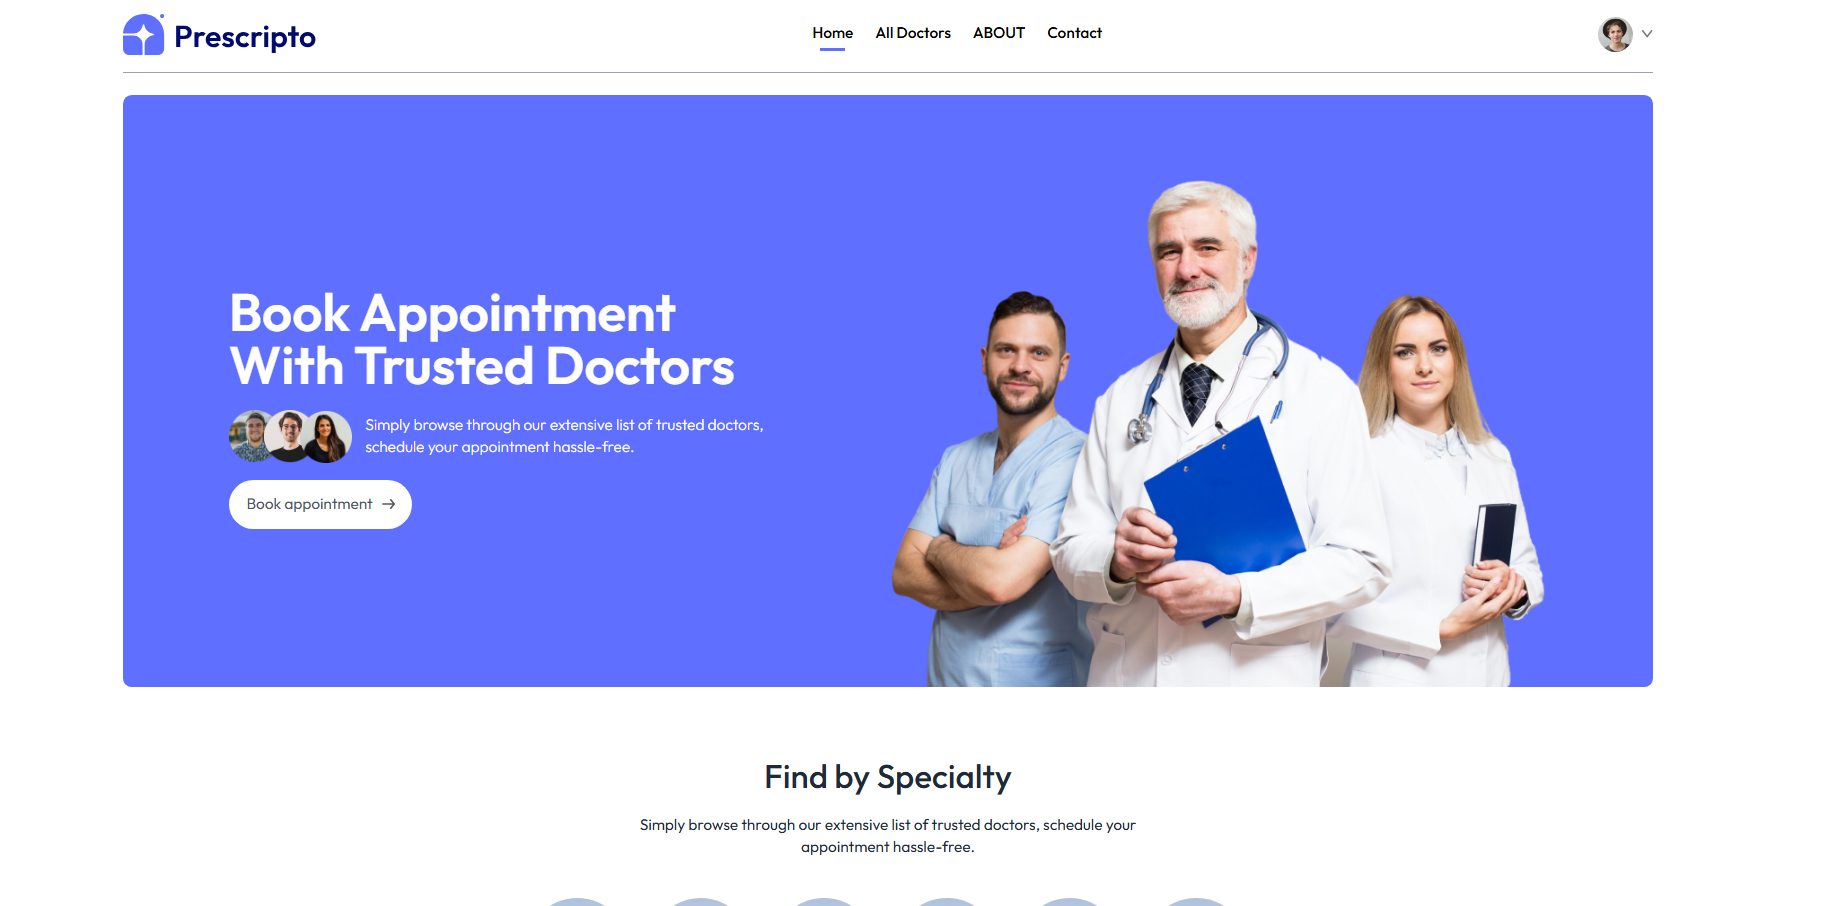
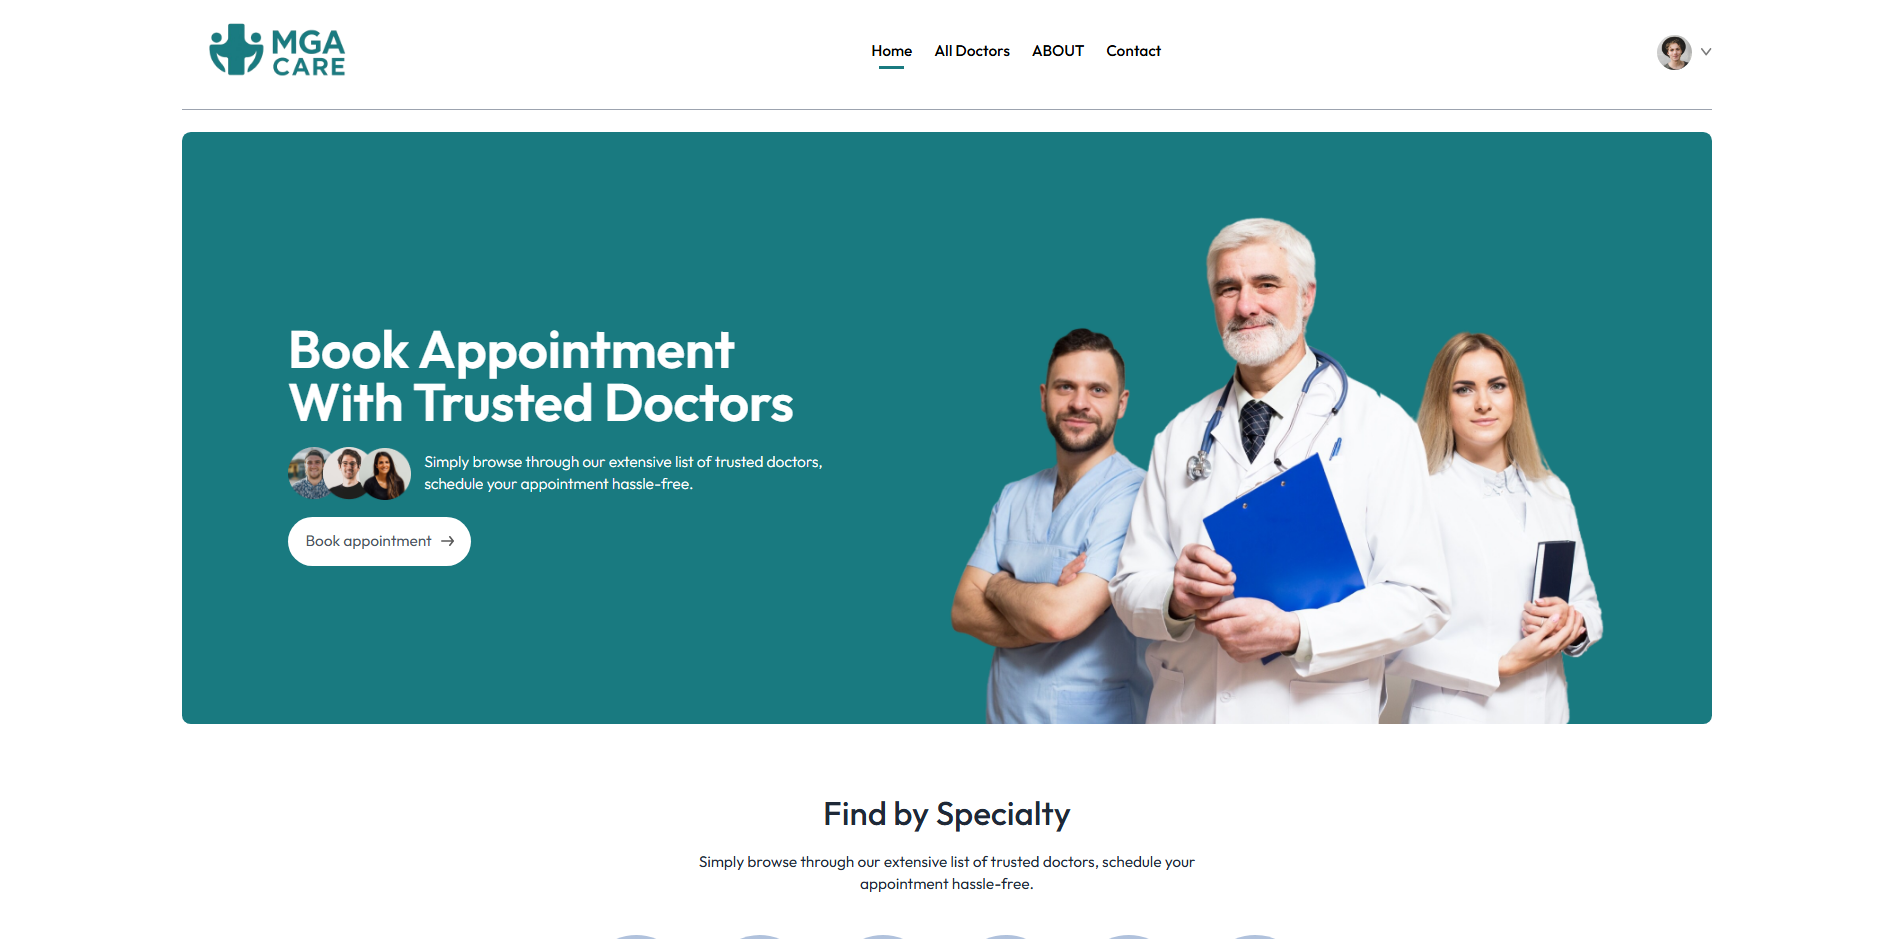
feat:  book appointment

diff --git a/src/pages/Appointments.tsx b/src/pages/Appointments.tsx
@@ -8,11 +8,11 @@ import RelatedDocs from '../components/RelatedDocs';
 const Appointments = () => {
   const { docId } = useParams();
 
-  const context = useContext(AppContext) || {
-    doctors: [],
-    currencySymbol: "$",
-  };
-  const { doctors, currencySymbol } = context;
+  const context = useContext(AppContext);
+  if (!context) {
+    return <div>Error: AppContext not available</div>;
+  }
+  const { doctors, currencySymbol, bookAppointment } = context;
   const [docInfo, setDocInfo] = useState<DoctorInterface | null>(null);
   // time slots
   const daysOfWeek = ["SUN", "MON", "TUE", "WED", "THU", "FRI", "SAT"];
@@ -70,6 +70,16 @@ const Appointments = () => {
     }
   };
 
+  const handleBookAppointment = () => {
+    if (!docInfo || !docSlotsTime || docSlots.length === 0) {
+      alert("Please select a time slot before booking");
+      return;
+    }
+
+    const selectedDate = docSlots[docSlotsIndex][0].datetime.toISOString().split('T')[0];
+    bookAppointment(docInfo, selectedDate, docSlotsTime);
+  };
+
   useEffect(() => {
     fetchDocData();
   }, [docId, doctors]);
@@ -103,7 +113,7 @@ const Appointments = () => {
             <p>
               {docInfo.degree} - {docInfo.speciality}
             </p>
-            <button className="py-0.5 px-2 border  rounded-full text-xs">
+            <button className="py-0.5 px-2 border rounded-full text-xs">
               {docInfo.experience}
             </button>
           </div>
@@ -133,7 +143,10 @@ const Appointments = () => {
           {docSlots.length >= 0 &&
             docSlots.map((slot, index) => (
               <button
-              onClick={() => setDocSlotsIndex(index)}
+                onClick={() => {
+                  setDocSlotsIndex(index);
+                  setDocSlotsTime(""); // Reset time when changing date
+                }}
                 key={index}
                 className={`text-center py-6 min-w-16 rounded-full cursor-pointer ${
                   index === docSlotsIndex
@@ -149,20 +162,28 @@ const Appointments = () => {
         <div className="flex items-center gap-3 w-full overflow-x-scroll mt-4 horizontal-scroll">
           {docSlots.length >= 0 &&
             docSlots[docSlotsIndex]?.map((slot, index) => (
-              <button onClick={() => setDocSlotsTime(slot.time)}
-                className={`text-sm font-light flex-shrink-0 px-5 py-2 rounded-full cursor-pointer ${slot.time ===docSlotsTime ? "bg-primary text-white" : "border border-gray-300"}`}
+              <button
+                onClick={() => setDocSlotsTime(slot.time)}
+                className={`text-sm font-light flex-shrink-0 px-5 py-2 rounded-full cursor-pointer ${
+                  slot.time === docSlotsTime
+                    ? "bg-primary text-white"
+                    : "border border-gray-300"
+                }`}
                 key={index}
               >
                 {slot.time.toLowerCase()}
               </button>
             ))}
         </div>
-        <button className="bg-primary text-white py-3 text-sm px-14 rounded-full font-light my-6 mt-4">
-        Book an appointment
+        <button
+          onClick={handleBookAppointment}
+          className="bg-primary text-white py-3 text-sm px-14 rounded-full font-light my-6 mt-4"
+        >
+          Book an appointment
         </button>
       </div>
       {/* list of related docs  */}
-      <RelatedDocs docId = {docId} specialty = {docInfo.speciality}/>
+      <RelatedDocs docId={docId} specialty={docInfo.speciality} />
     </div>
   ) : (
     <div>loading</div>

diff --git a/src/pages/Doctors.tsx b/src/pages/Doctors.tsx
@@ -83,7 +83,7 @@ const Doctors = () => {
                     ? navigate('/doctors')
                     : navigate(`/doctors/${spec}`)
                 }
-                className={`w-full text-left pl-3 py-1.5 border border-gray-300 rounded transition-all ${specialty === spec ? "bg-indigo-100 text-black" : ""
+                className={`w-full text-left pl-3 py-1.5 border border-gray-300 rounded transition-all ${specialty === spec ? "bg-primary/50 text-white" : ""
                   }`}
               >
                 {spec}
@@ -102,9 +102,9 @@ const Doctors = () => {
               onChange={(e) => setMinFee(+e.target.value)}
               className="w-full h-2 rounded-lg appearance-none cursor-pointer"
               style={{
-                background: `linear-gradient(to right, #e0e7ff ${(minFee / maxFee) * 100
+                background: `linear-gradient(to right, rgb(25 122 128 / 0.5) ${(minFee / maxFee) * 100
                   }%, #e5e7eb ${(minFee / maxFee) * 100}%)`,
-                accentColor: "#e0e7ff", // Indigo-100 for thumb
+                accentColor: "rgb(25 122 128 / 0.5)", // Indigo-100 for thumb
               }}
             />
             <div className="flex justify-between">
@@ -118,7 +118,7 @@ const Doctors = () => {
             <select
               value={minRating}
               onChange={(e) => setMinRating(+e.target.value)}
-              className="border border-gray-300 rounded p-1 bg-indigo-100"
+              className="border border-primary/50 rounded p-1 bg-primary/50 text-white"
             >
               {[0, 1, 2, , 3, 3.5, 4, 4.5, 5].map((rating) => (
                 <option key={rating} value={rating}>
@@ -136,13 +136,13 @@ const Doctors = () => {
               checked={availability}
               onChange={(e) => setAvailability(e.target.checked)}
               className="w-5 h-5 rounded border-gray-300 text-indigo-500 focus:ring-indigo-200 cursor-pointer"
-              style={{ accentColor: "#e0e7ff" }} />
+              style={{ accentColor: "rgb(25 122 128 / 0.5)" }} />
           </div>
 
           {/* Reset Button */}
           <button
             onClick={resetFilters}
-            className="w-full pl-3 py-1.5 border border-gray-300 rounded transition-all hover:bg-indigo-100"
+            className="w-full pl-3 py-1.5 border border-gray-300 rounded transition-all hover:bg-primary/50 hover:text-white"
           >
             Reset Filters
           </button>

diff --git a/src/pages/MyAppointments.tsx b/src/pages/MyAppointments.tsx
@@ -1,14 +1,17 @@
-import { useContext } from "react";
+
+// MyAppointments Component
+import { useContext, useState } from "react";
 import { AppContext } from "../context/appContext";
+
 const MyAppointments = () => {
   const context = useContext(AppContext);
   if (!context) {
     return <div>Error: AppContext not available</div>;
   }
 
-  const { doctors, getBookings } = context;
+  const { doctors, getBookings, cancelAppointment } = context;
   const bookings = getBookings();
-  console.log(bookings)
+  const [isUpdated, setIsUpdated] = useState(false);
 
   // Function to format date and time
   const formatDateTime = (date: string, time: string) => {
@@ -29,8 +32,8 @@ const MyAppointments = () => {
         ) : (
           bookings.map((booking, index) => {
             // Find doctor details for the booking
-            const doctor = doctors.find(d => Number(d._id) === booking.id);
-            // if (!doctor) return null;
+            const doctor = doctors.find(d => d._id === booking.id);
+            // if (!doctor) return null;        
 
             return (
               <div
@@ -39,7 +42,7 @@ const MyAppointments = () => {
               >
                 <div>
                   <img
-                    className="w-32 bg-indigo-50"
+                    className="w-32 bg-primary/50 rounded-lg"
                     src={doctor?.image}
                     alt={doctor?.name}
                   />
@@ -59,10 +62,11 @@ const MyAppointments = () => {
                 </div>
                 <div></div>
                 <div className="flex flex-col gap-2 justify-end">
-                  <button className="text-sm text-stone-500 sm:min-w-48 py-2 border hover:bg-primary hover:text-white transition-all duration-300">
-                    Pay Online
-                  </button>
-                  <button className="text-sm text-stone-500 sm:min-w-48 py-2 border hover:bg-red-600 hover:text-white transition-all duration-300">
+              
+                  <button
+                    onClick={() =>{ cancelAppointment(booking);setIsUpdated(!isUpdated)}}
+                    className="text-sm text-stone-500 sm:min-w-48 py-2 border hover:bg-red-600 hover:text-white transition-all duration-300"
+                  >
                     Cancel Appointment
                   </button>
                 </div>
@@ -74,5 +78,4 @@ const MyAppointments = () => {
     </div>
   );
 };
-
 export default MyAppointments;

diff --git a/src/pages/About.tsx b/src/pages/About.tsx
@@ -4,15 +4,15 @@ const About = () => {
   return (
     <div>
       <div className="text-center text-2xl pt-10 text-gray-500">
-        <p>About <span className="text-gray-700 font-medium">Us</span></p>
+        <p>About <span className="text-gray-700 font-medium">Me</span></p>
       </div>
       <div className="my-10  flex flex-col md:flex-row gap-12">
         <img src={assets.about_image} alt="about_us_image" className="w-full md:max-w-[360px]"/>
         <div className="flex flex-col justify-center gap-6 md:w-2/4 text-sm text-gray-600">
-          <p>Welcome to Prescripto, your trusted partner in managing your healthcare needs conveniently and efficiently. At Prescripto, we understand the challenges individuals face when it comes to scheduling doctor appointments and managing their health records</p>
-          <p>Prescripto is committed to excellence in healthcare technology. We continuously strive to enhance our platform, integrating the latest advancements to improve user experience and deliver superior service. Whether you're booking your first appointment or managing ongoing care, Prescripto is here to support you every step of the way.</p>
+          <p>Welcome to MGA Care, your trusted partner in managing your healthcare needs conveniently and efficiently. At MGA Care, we understand the challenges individuals face when it comes to scheduling doctor appointments and managing their health records</p>
+          <p>MGA Care is committed to excellence in healthcare technology. We continuously strive to enhance our platform, integrating the latest advancements to improve user experience and deliver superior service. Whether you're booking your first appointment or managing ongoing care, MGA Care is here to support you every step of the way.</p>
           <b className="text-gray-800">Our Vision</b>
-          <p>Our vision at Prescripto is to create a seamless healthcare experience for every user. We aim to bridge the gap between patients and healthcare providers, making it easier for you to access the care you need, when you need it.</p>
+          <p>Our vision at MGA Care is to create a seamless healthcare experience for every user. We aim to bridge the gap between patients and healthcare providers, making it easier for you to access the care you need, when you need it.</p>
         </div>
         
       </div>

diff --git a/src/context/appContext.tsx b/src/context/appContext.tsx
@@ -3,7 +3,7 @@ import { doctors } from "../assets/assets";
 import { Doctor } from '../types/doctorsTypes';
 
 interface Booking {
-  id: number;
+  id: string;
   name: string;
   specialty: string;
   date: string;
@@ -16,6 +16,7 @@ interface AppContextValue {
   bookAppointment: (doctor: Doctor, date: string, time: string) => void;
   getAvailableTimes: (doctorId: number, date: string) => string[];
   getBookings: () => Booking[];
+  cancelAppointment: (booking: Booking) => void;
 }
 
 export const AppContext = createContext<AppContextValue | undefined>(undefined);
@@ -36,7 +37,7 @@ const AppContextProvider: React.FC<AppContextProviderProps> = ({ children }) => 
   const bookAppointment = (doctor: Doctor, date: string, time: string) => {
     const bookings: Booking[] = JSON.parse(localStorage.getItem('bookings') || '[]');
     const newBooking = {
-      id: Number(doctor._id),
+      id: doctor._id,
       name: doctor.name,
       specialty: doctor.speciality,
       date,
@@ -47,8 +48,23 @@ const AppContextProvider: React.FC<AppContextProviderProps> = ({ children }) => 
     alert(`Appointment booked successfully with ${doctor.name} on ${date} at ${time}!`);
   };
 
+  const cancelAppointment = (booking: Booking) => {
+    const bookings: Booking[] = JSON.parse(localStorage.getItem('bookings') || '[]');
+    const updatedBookings = bookings.filter(
+      (b) =>
+        !(
+          b.id === booking.id &&
+          b.date === booking.date &&
+          b.time === booking.time &&
+          b.name === booking.name &&
+          b.specialty === booking.specialty
+        )
+    );
+    localStorage.setItem('bookings', JSON.stringify(updatedBookings));
+    alert(`Appointment with ${booking.name} on ${booking.date} at ${booking.time} has been cancelled.`);
+  };
+
   const getAvailableTimes = (doctorId: number, date: string): string[] => {
-    // In a real app, this would query an API for available times
     return availableTimes[date] || [];
   };
 
@@ -62,6 +78,7 @@ const AppContextProvider: React.FC<AppContextProviderProps> = ({ children }) => 
     bookAppointment,
     getAvailableTimes,
     getBookings,
+    cancelAppointment,
   }), [availableTimes]);
 
   return (

diff --git a/src/components/CardDoctor.tsx b/src/components/CardDoctor.tsx
@@ -12,14 +12,14 @@ const CardDoctor = ({ doctor }: DoctorCardProps) => {
     <>
       <div
         onClick={() => setIsModalOpen(true)}
-        className="border relative border-blue-200 rounded-xl overflow-hidden cursor-pointer hover:translate-y-[-11px] transition-all duration-500"
+        className="border relative border-primary/40 rounded-xl overflow-hidden cursor-pointer hover:translate-y-[-11px] transition-all duration-500"
       >
         <div className='absolute top-2 right-2  flex items-center gap-1 max-w-10 max-h-10 z-10'> {doctor?.rating} <img src={assets.star_rating} alt='star' className='w-4 h-4' />
         </div>
       <img
         src={doctor?.image}
         alt={doctor?.name}
-        className="w-full bg-blue-50 hover:bg-blue-200 transition-all duration-300 h-48 object-contain rounded-t-lg"
+        className="w-full bg-primary/10 hover:bg-primary/40 transition-all duration-300 h-48 object-contain rounded-t-lg"
       />
       <div className="p-4">
         <div className="flex items-center justify-between gap-2 text-sm text-center text-green-500">

diff --git a/src/pages/Contact.tsx b/src/pages/Contact.tsx
@@ -6,7 +6,7 @@ const Contact = () => {
       <div className="text-center text-2xl text-gray-500">
         <p>
           {" "}
-          Contact <span className="text-gray-700 font-semibold">Us</span>
+          Contact <span className="text-gray-700 font-semibold">Me</span>
         </p>
       </div>
       <div className="my-10 flex flex-col justify-center md:flex-row gap-10 mb-28 text-sm">
@@ -24,10 +24,10 @@ const Contact = () => {
           <p className=" text-gray-500 ">Tel: (+20) 1015683986</p>
           <p className=" text-gray-500 ">Email: medhatashour19@gmail.com</p>
           <p className=" text-gray-600 font-semibold text-lg ">
-            Careers at PRESCRIPTO
+            Get well soon
           </p>
           <p className=" text-gray-500 ">
-            Learn more about our teams and job openings.
+            Learn more about me.
           </p>
           <button className="rounded-sm border border-black px-8 py-4 text-sm hover:bg-black hover:text-white transition-all duration-500">
             Contact Me

diff --git a/src/components/Footer.tsx b/src/components/Footer.tsx
@@ -24,8 +24,8 @@ const Footer = () => {
                 
             <p className="text-xl font-medium mb-5">GET IN TOUCH</p>
             <ul className="flex flex-col gap-2 text-gray-60">
-                    <li>+1-212-456-7890</li>
-                    <li>greatstackdev@gmail.com us</li>
+                    <li>+201015683986</li>
+                    <li>Medhatashour19@gmail.com</li>
                 
                 </ul>
             </div>

diff --git a/src/assets/assets.ts b/src/assets/assets.ts
@@ -4,7 +4,7 @@ import group_profiles from './group_profiles.png'
 import profile_pic from './profile_pic.png'
 import contact_image from './contact_image.png'
 import about_image from './about_image.png'
-import logo from './logo.svg'
+import logo from './logo.png'
 import dropdown_icon from './dropdown_icon.svg'
 import menu_icon from './menu_icon.svg'
 import cross_icon from './cross_icon.png'

diff --git a/tailwind.config.js b/tailwind.config.js
@@ -7,7 +7,7 @@ export default {
   theme: {
     extend: {
       colors: {
-        'primary': '#5f6fff',
+        'primary': '#197a80',
       },
       gridTemplateColumns: {
         'auto': 'repeat(auto-fill, minmax(200px, 1fr))',

diff --git a/README.MD b/README.MD
@@ -61,7 +61,7 @@ This project is a full-stack web application designed to streamline the process 
    cd docApp
    ```
    
-2. Install dependencies for both frontend and backend::
+2. Install dependencies for both frontend:
    ```bash
         npm install
     ```
